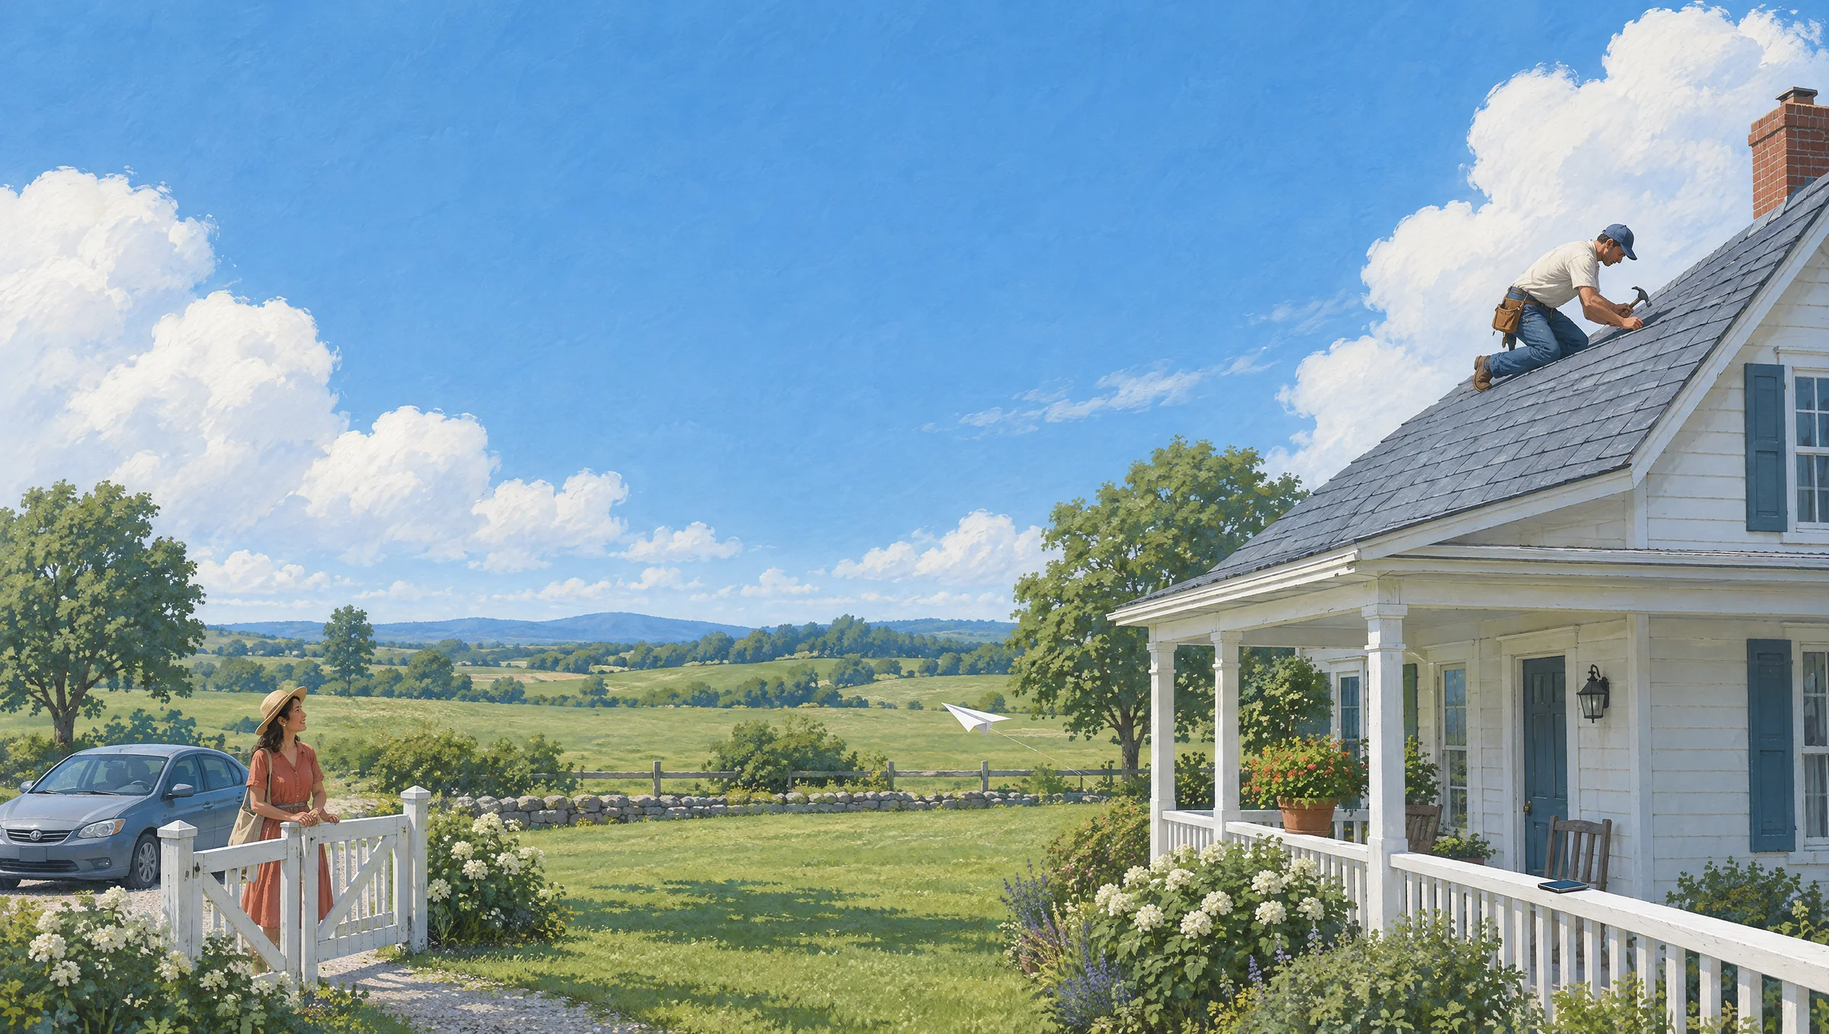
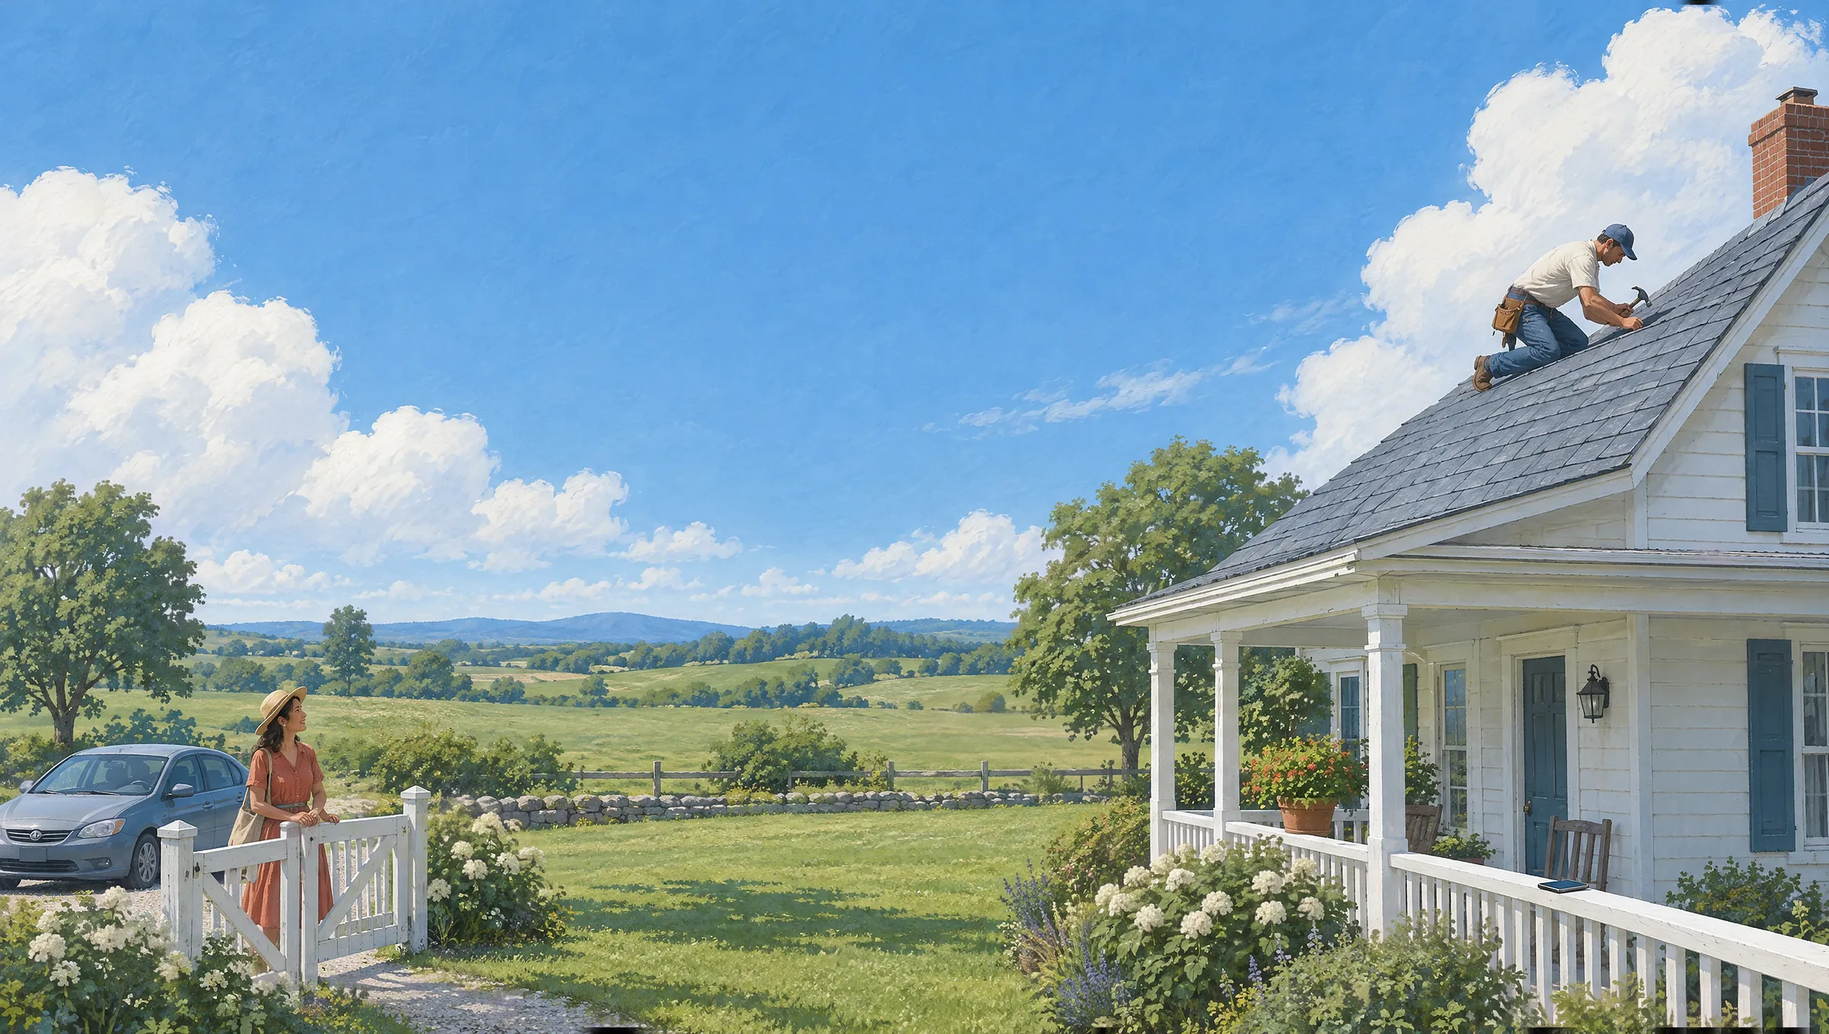
Hero effects: Lineback, Pursuit (all 13 product paintings now move)
- lineback: the text is a paper plane: the roofer (hands busy) sends it, it glides the meadow
  and lands in the hands of the woman at the gate, every few seconds
- pursuit: a steady stream of paper planes leaves her hands, each to a different door
Painted planes removed (Higgsfield, original figures composited back).

diff --git a/s/fx/pursuit.js b/s/fx/pursuit.js
@@ -1,0 +1,200 @@
+/* Pursuit hero: every lead gets chased.
+   - The woman at the cottage keeps sending paper planes, a steady easy rhythm, and each one goes
+     to a different door in the village: the farmhouse up the hill, the girl in blue at the little
+     cottage, the cottage door by the road, the man reaching up at the stone cottage, the woman at
+     the white cottage. Nobody is skipped, nobody gets two in a row: that is the follow-up, one
+     polite message after another, to every lead, until each one is answered.
+   - Each plane flies like a real paper dart: tossed up out of her hands, it settles into a long
+     glide, banks gently into its turn toward its house, shrinks as it goes out over the valley
+     (the far farmhouse gets a small plane, the near cottage a big one), then flares and is
+     caught, or slips in at the door, with a small soft light: answered.
+   - Drawn in 3D (two wings with a slight dihedral and a folded keel) and lit by the painting's sun,
+     seen a little from above the way the painter drew the original ones. Flights stay under the
+     price line so nothing crosses the copy.
+   The painting's own paper planes were painted out (clean plate): every plane is live.
+   Reduced motion / quiet pages: three planes held mid-flight on their way to three doors. */
+(function () {
+  var kit = window.StationHeroFx; if (!kit) return;
+  var ctx = kit.canvas(2);
+  var ASP = 2171 / 3840, HZ = .50;          // painting aspect; horizon (the sea line)
+  // world axes: x right, d away from us, z up. The sun is high, to the left, on our side
+  var SUN = norm([-.35, -.45, .82]);
+  var CE = Math.cos(.36), SE = Math.sin(.36); // we see the planes a little from above
+  var HANDS = [.126, .628];                   // where she lets go
+  // the doors, painting fractions: [x, y, plane length on arrival, arc height, caught by someone?]
+  var DOORS = [
+    [.240, .539, .0080, .018, 0],   // the white farmhouse up the hill (its door)
+    [.353, .653, .0115, .030, 1],   // the girl in blue at the little cottage, arms up
+    [.492, .718, .0135, .020, 0],   // the cottage door down by the road
+    [.652, .736, .0180, .024, 1],   // the man at the stone cottage, arms up
+    [.917, .774, .0215, .022, 1]    // the woman at the white cottage, arms up
+  ];
+  var EVERY = .9;                             // a plane leaves her hands about every 0.9 s
+
+  function norm(v) { var l = Math.hypot(v[0], v[1], v[2]) || 1; return [v[0] / l, v[1] / l, v[2] / l]; }
+  function cross(a, b) { return [a[1] * b[2] - a[2] * b[1], a[2] * b[0] - a[0] * b[2], a[0] * b[1] - a[1] * b[0]]; }
+
+  // one route per door: out of her hands, up a little, a long glide with a gentle S, down to the door.
+  // Size follows depth (harmonic, so it shrinks fast at first and slowly far away). Kept below the
+  // price line (y >= .645) wherever the copy sits.
+  function route(T, seed) {
+    var keys = [[HANDS[0], HANDS[1], .040], [.150, .606, .044]], s1 = .044, n = 9, i;
+    for (i = 1; i <= n; i++) {
+      var u = i / n, e = u * u * (3 - 2 * u) * .35 + u * .65;
+      var x = .150 + (T[0] - .150) * e + .010 * Math.sin(u * 6.2832 + seed) * (1 - u);
+      var y = .606 + (T[1] - .606) * e - T[3] * Math.sin(Math.PI * u) * (1 - .3 * u);
+      if (x > .31 && x < .69) y = Math.max(y, .645 + .01 * Math.sin(u * 3 + seed));
+      if (i === n) { x = T[0]; y = T[1]; }
+      keys.push([x, y, .35 / ((1 - u) / s1 + u / T[2]) + .65 * (s1 + (T[2] - s1) * u)]);
+    }
+    return build(keys);
+  }
+  function build(KEYS) { // dense Catmull-Rom, each point placed in the world (depth = 1 / size)
+    var out = [], i, j, k;
+    for (i = 0; i < KEYS.length - 1; i++) {
+      var p0 = KEYS[Math.max(0, i - 1)], p1 = KEYS[i], p2 = KEYS[i + 1], p3 = KEYS[Math.min(KEYS.length - 1, i + 2)];
+      for (j = 0; j < 16; j++) {
+        var t = j / 16, t2 = t * t, t3 = t2 * t, q = [];
+        for (k = 0; k < 3; k++) q.push(.5 * (2 * p1[k] + (-p0[k] + p2[k]) * t + (2 * p0[k] - 5 * p1[k] + 4 * p2[k] - p3[k]) * t2 + (-p0[k] + 3 * p1[k] - 3 * p2[k] + p3[k]) * t3));
+        out.push(q);
+      }
+    }
+    out.push(KEYS[KEYS.length - 1].slice());
+    var d = 0;
+    out.forEach(function (q, n) {
+      var D = 1 / q[2]; q.w = [(q[0] - .5) * D, D, -(q[1] - HZ) * ASP * D];
+      if (n) { var a = out[n - 1].w; d += Math.hypot(q.w[0] - a[0], q.w[1] - a[1], q.w[2] - a[2]); }
+      q.dist = d;
+    });
+    out.forEach(function (q, n) {
+      var a = out[Math.max(0, n - 2)].w, b = out[Math.min(out.length - 1, n + 2)].w;
+      q.f = norm([b[0] - a[0], b[1] - a[1], b[2] - a[2]]); q.yaw = Math.atan2(q.f[1], q.f[0]);
+    });
+    out.forEach(function (q, n) {
+      var a = out[Math.max(0, n - 3)], b = out[Math.min(out.length - 1, n + 3)], dy = b.yaw - a.yaw;
+      while (dy > Math.PI) dy -= 2 * Math.PI; while (dy < -Math.PI) dy += 2 * Math.PI;
+      q.turn = dy / ((b.dist - a.dist) || 1);
+    });
+    out.len = d;
+    return out;
+  }
+  function at(P, d) {
+    d = Math.max(0, Math.min(P.len, d));
+    var lo = 0, hi = P.length - 1;
+    while (hi - lo > 1) { var m = (lo + hi) >> 1; if (P[m].dist < d) lo = m; else hi = m; }
+    var a = P[lo], b = P[hi], r = (d - a.dist) / ((b.dist - a.dist) || 1);
+    return { x: a[0] + (b[0] - a[0]) * r, y: a[1] + (b[1] - a[1]) * r, s: a[2] + (b[2] - a[2]) * r,
+      f: norm([a.f[0] + (b.f[0] - a.f[0]) * r, a.f[1] + (b.f[1] - a.f[1]) * r, a.f[2] + (b.f[2] - a.f[2]) * r]),
+      turn: a.turn + (b.turn - a.turn) * r };
+  }
+  // two routes per door (slightly different S), so the stream never looks copied
+  var ROUTES = DOORS.map(function (T, i) { return [route(T, i * 1.7), route(T, i * 1.7 + 2.4)]; });
+
+  // a folded paper dart, body coords [forward, right, up], length 1
+  var V = { N: [.5, 0, 0], T: [-.5, 0, .01], L: [-.5, -.29, .07], R: [-.5, .29, .07], CL: [-.5, -.14, .04], CR: [-.5, .14, .04],
+    KL: [-.44, -.018, -.13], KR: [-.44, .018, -.13] };
+  var FACES = [["N", "T", "KL", 1], ["N", "T", "KR", 1], ["N", "T", "L", 0], ["N", "T", "R", 0]];
+  function dart(x, y, len, f, roll, alpha) {
+    if (len < 1.2 || alpha <= .01) return;
+    var up = [0, 0, 1], r = cross(f, up), rl = Math.hypot(r[0], r[1], r[2]);
+    r = rl < .05 ? [0, -1, 0] : [r[0] / rl, r[1] / rl, r[2] / rl];
+    var u = cross(r, f), c = Math.cos(roll), s = Math.sin(roll);
+    var r2 = [r[0] * c + u[0] * s, r[1] * c + u[1] * s, r[2] * c + u[2] * s];
+    var u2 = [u[0] * c - r[0] * s, u[1] * c - r[1] * s, u[2] * c - r[2] * s];
+    var W = {}, k;
+    for (k in V) { var v = V[k]; W[k] = [f[0] * v[0] + r2[0] * v[1] + u2[0] * v[2], f[1] * v[0] + r2[1] * v[1] + u2[1] * v[2], f[2] * v[0] + r2[2] * v[1] + u2[2] * v[2]]; }
+    function sy(q) { return y - (q[2] * CE + q[1] * SE) * len; }
+    var faces = FACES.map(function (F) {
+      var a = W[F[0]], b = W[F[1]], cc = W[F[2]];
+      var n = norm(cross([b[0] - a[0], b[1] - a[1], b[2] - a[2]], [cc[0] - a[0], cc[1] - a[1], cc[2] - a[2]]));
+      if (n[1] * CE - n[2] * SE > 0) n = [-n[0], -n[1], -n[2]]; // the side that faces us
+      var lit = Math.max(0, n[0] * SUN[0] + n[1] * SUN[1] + n[2] * SUN[2]);
+      return { p: [a, b, cc], d: ((a[1] + b[1] + cc[1]) * CE - (a[2] + b[2] + cc[2]) * SE) / 3, lit: lit, keel: F[3] };
+    }).sort(function (p, q) { return q.d - p.d; });
+    ctx.save(); ctx.globalAlpha = alpha; ctx.lineJoin = "round";
+    faces.forEach(function (F) {
+      var b = F.keel ? .52 + .4 * F.lit : .66 + .34 * F.lit;            // paper: never black, shadow is cool sky
+      var R = Math.round(150 + 103 * b), G = Math.round(158 + 93 * b), B = Math.round(176 + 70 * b);
+      ctx.fillStyle = "rgb(" + Math.min(253, R) + "," + Math.min(251, G) + "," + Math.min(246, B) + ")";
+      ctx.beginPath();
+      F.p.forEach(function (q, i) { var px = x + q[0] * len, py = sy(q); if (i) ctx.lineTo(px, py); else ctx.moveTo(px, py); });
+      ctx.closePath(); ctx.fill();
+      if (len > 7) { ctx.lineWidth = Math.max(.6, len * .022); ctx.strokeStyle = "rgba(64,74,96,.32)"; ctx.stroke(); }
+    });
+    if (len > 10) { // the fold creases along each wing
+      ctx.strokeStyle = "rgba(90,100,124,.28)"; ctx.lineWidth = Math.max(.5, len * .014);
+      ctx.beginPath(); ctx.moveTo(x + W.N[0] * len, sy(W.N)); ctx.lineTo(x + W.CL[0] * len, sy(W.CL));
+      ctx.moveTo(x + W.N[0] * len, sy(W.N)); ctx.lineTo(x + W.CR[0] * len, sy(W.CR)); ctx.stroke();
+    }
+    ctx.restore();
+  }
+  function soft(x, y, r, a) { // the small soft light of an answered message
+    if (a <= .005) return;
+    var g = ctx.createRadialGradient(x, y, 0, x, y, r);
+    g.addColorStop(0, "rgba(255,250,236," + a.toFixed(3) + ")"); g.addColorStop(.4, "rgba(255,246,228," + (a * .3).toFixed(3) + ")");
+    g.addColorStop(1, "rgba(255,246,228,0)");
+    ctx.globalCompositeOperation = "screen"; ctx.fillStyle = g; ctx.beginPath(); ctx.arc(x, y, r, 0, 6.2832); ctx.fill();
+    ctx.globalCompositeOperation = "source-over";
+  }
+  function render(q, alpha, roll, pitchUp) {
+    var f = q.f;
+    if (pitchUp) { var h = Math.hypot(f[0], f[1]) || 1, pz = Math.atan2(f[2], h) + pitchUp; f = [f[0] / h * Math.cos(pz), f[1] / h * Math.cos(pz), Math.sin(pz)]; }
+    dart(kit.X(q.x), kit.Y(q.y), q.s * kit.dw, f, roll, alpha);
+  }
+
+  function still() {
+    ctx.clearRect(0, 0, kit.W, kit.H);
+    [[0, .7], [3, .45], [4, .25]].forEach(function (p) { var P = ROUTES[p[0]][0]; render(at(P, P.len * p[1]), 1, .1, 0); });
+  }
+  if (kit.reduce || kit.quiet) { kit.onLayout(still); still(); return; }
+
+  // the order: every door once, shuffled, and never the same door twice in a row
+  var order = [], last = -1;
+  function nextDoor() {
+    if (!order.length) {
+      order = [0, 1, 2, 3, 4];
+      for (var i = order.length - 1; i > 0; i--) { var j = (Math.random() * (i + 1)) | 0, x = order[i]; order[i] = order[j]; order[j] = x; }
+      if (order[order.length - 1] === last) order.unshift(order.pop());
+    }
+    return (last = order.pop());
+  }
+  var planes = [], glows = [], clock = 0, next = .4;
+  function launch() {
+    var i = nextDoor(), P = ROUTES[i][(Math.random() * 2) | 0];
+    // about 3.5 s to the near cottage, up to ~5 s to the far farmhouse
+    planes.push({ P: P, door: i, d: 0, age: 0, bank: 0, ph: Math.random() * 6.28, v: P.len / (3.3 + 2.6 * (1 - DOORS[i][2] / .023)) * .82 });
+  }
+
+  kit.loop(function (t, dt) {
+    clock += dt;
+    if (clock >= next) { launch(); next = clock + EVERY * (.85 + Math.random() * .3); }
+    ctx.clearRect(0, 0, kit.W, kit.H);
+    for (var g = glows.length - 1; g >= 0; g--) {
+      var G = glows[g]; G.life += dt;
+      var a = G.life < .2 ? G.life / .2 : Math.max(0, 1 - (G.life - .2) / 1.1);
+      soft(kit.X(G.x), kit.Y(G.y), kit.dw * G.r, .5 * a);
+      if (G.life > 1.3) glows.splice(g, 1);
+    }
+    var draw = [];
+    for (var i = planes.length - 1; i >= 0; i--) {
+      var p = planes[i], P = p.P, T = DOORS[p.door];
+      p.age += dt;
+      if (p.d < P.len) {
+        var rem = P.len - p.d;
+        p.d = Math.min(P.len, p.d + p.v * (1 + .9 * Math.exp(-p.age * 2.4)) * Math.min(1, .3 + rem / (P.len * .12)) * dt);
+        var q = at(P, p.d), k = p.d / P.len;
+        var want = Math.max(-.7, Math.min(.7, -q.turn * 9)) + .14 * Math.sin(p.age * 1.8 + p.ph);
+        p.bank += (want - p.bank) * Math.min(1, dt * 3);
+        var fl = k > .9 ? (k - .9) / .1 : 0;
+        draw.push([q, Math.min(1, p.age / .2), p.bank * (1 - fl), (T[4] ? .55 : .3) * fl * fl]);
+        if (p.d >= P.len) { p.end = 0; glows.push({ x: T[0], y: T[1] - .004, r: .004 + T[2] * .9, life: 0 }); }
+      } else {
+        p.end += dt; // caught, or slipped in at the door
+        if (p.end > .45) { planes.splice(i, 1); continue; }
+        draw.push([at(P, P.len), 1 - p.end / .45, 0, T[4] ? .55 : .3]);
+      }
+    }
+    draw.sort(function (a, b) { return a[0].s - b[0].s; }); // far planes first
+    draw.forEach(function (d) { render(d[0], d[1], d[2], d[3]); });
+  });
+})();

diff --git a/s/fx/lineback.js b/s/fx/lineback.js
@@ -1,0 +1,161 @@
+/* Lineback hero: the missed call answers itself.
+   - The roofer's hands are full (hammer, shingle), so he can't pick up. A moment later a folded
+     paper plane leaves his side on its own: that plane is the text Lineback sends back.
+   - It flies like a real paper dart thrown off a roof: a little toss up, a nose-down dip as it
+     picks up speed, a pull-out and a long flat glide over the meadow (a small lift, gentle banks
+     into its turns), then it flares, slows and settles into the hands of the woman at the gate,
+     who is already looking up for it. One plane, then a pause, then the next missed call's text.
+   - The plane is drawn in 3D: two wings with a slight dihedral and a folded keel, lit by the
+     painting's sun (lit tops paper-white, the keel and undersides in cool sky shadow), and sized by
+     its distance (smaller out over the field, closer again at the gate).
+   - The glide runs under the headline, buttons and price line, so nothing crosses the copy.
+   The painting's own paper plane was painted out (clean plate): the only plane is the live one.
+   Reduced motion / quiet pages: one plane held mid-glide over the meadow, as the painting had it. */
+(function () {
+  var kit = window.StationHeroFx; if (!kit) return;
+  var ctx = kit.canvas(2);
+  var ASP = 2171 / 3840, HZ = .60;        // painting aspect; horizon (distant hills)
+  // world axes: x right, d away from us, z up. The sun is high, to the right, on our side
+  var SUN = norm([.35, -.45, .82]);
+  // we see the plane a little from above, the way the painter drew the original one
+  var CE = Math.cos(.36), SE = Math.sin(.36);
+  // the flight, painting fractions [x, y, plane length as a fraction of painting width]
+  var KEYS = [[.838, .274, .028], [.810, .258, .034], [.786, .270, .033], [.768, .330, .032], [.748, .410, .031],
+    [.718, .490, .030], [.686, .563, .029], [.652, .630, .027], [.590, .662, .026], [.505, .669, .025], [.420, .661, .025],
+    [.338, .672, .025], [.268, .698, .026], [.215, .734, .027], [.186, .763, .027], [.174, .776, .026]];
+  var HANDS = [.168, .786], GAP = 1.9, FLIGHT = 5.4; // seconds in the air
+
+  function norm(v) { var l = Math.hypot(v[0], v[1], v[2]) || 1; return [v[0] / l, v[1] / l, v[2] / l]; }
+  function cross(a, b) { return [a[1] * b[2] - a[2] * b[1], a[2] * b[0] - a[0] * b[2], a[0] * b[1] - a[1] * b[0]]; }
+
+  // dense Catmull-Rom through KEYS, with each point placed in the world (depth = 1 / size)
+  var P = (function () {
+    var out = [], i, j, k;
+    for (i = 0; i < KEYS.length - 1; i++) {
+      var p0 = KEYS[Math.max(0, i - 1)], p1 = KEYS[i], p2 = KEYS[i + 1], p3 = KEYS[Math.min(KEYS.length - 1, i + 2)];
+      for (j = 0; j < 24; j++) {
+        var t = j / 24, t2 = t * t, t3 = t2 * t, q = [];
+        for (k = 0; k < 3; k++) q.push(.5 * (2 * p1[k] + (-p0[k] + p2[k]) * t + (2 * p0[k] - 5 * p1[k] + 4 * p2[k] - p3[k]) * t2 + (-p0[k] + 3 * p1[k] - 3 * p2[k] + p3[k]) * t3));
+        out.push(q);
+      }
+    }
+    out.push(KEYS[KEYS.length - 1].slice());
+    var d = 0;
+    out.forEach(function (q, n) {
+      var D = 1 / q[2]; q.w = [(q[0] - .5) * D, D, -(q[1] - HZ) * ASP * D];
+      if (n) { var a = out[n - 1].w; d += Math.hypot(q.w[0] - a[0], q.w[1] - a[1], q.w[2] - a[2]); }
+      q.dist = d;
+    });
+    // heading at each point, and how fast it turns (for the bank)
+    out.forEach(function (q, n) {
+      var a = out[Math.max(0, n - 2)].w, b = out[Math.min(out.length - 1, n + 2)].w;
+      q.f = norm([b[0] - a[0], b[1] - a[1], b[2] - a[2]]);
+      q.yaw = Math.atan2(q.f[1], q.f[0]);
+    });
+    out.forEach(function (q, n) {
+      var a = out[Math.max(0, n - 3)], b = out[Math.min(out.length - 1, n + 3)], dy = b.yaw - a.yaw;
+      while (dy > Math.PI) dy -= 2 * Math.PI; while (dy < -Math.PI) dy += 2 * Math.PI;
+      q.turn = dy / ((b.dist - a.dist) || 1);
+    });
+    return out;
+  })();
+  var LEN = P[P.length - 1].dist, SPEED = LEN / FLIGHT * .82;
+  function at(d) {
+    d = Math.max(0, Math.min(LEN, d));
+    var lo = 0, hi = P.length - 1;
+    while (hi - lo > 1) { var m = (lo + hi) >> 1; if (P[m].dist < d) lo = m; else hi = m; }
+    var a = P[lo], b = P[hi], r = (d - a.dist) / ((b.dist - a.dist) || 1);
+    return { x: a[0] + (b[0] - a[0]) * r, y: a[1] + (b[1] - a[1]) * r, s: a[2] + (b[2] - a[2]) * r,
+      f: norm([a.f[0] + (b.f[0] - a.f[0]) * r, a.f[1] + (b.f[1] - a.f[1]) * r, a.f[2] + (b.f[2] - a.f[2]) * r]),
+      turn: a.turn + (b.turn - a.turn) * r };
+  }
+
+  // a folded paper dart, body coords [forward, right, up], length 1
+  var V = { N: [.5, 0, 0], T: [-.5, 0, .01], L: [-.5, -.29, .07], R: [-.5, .29, .07], CL: [-.5, -.14, .04], CR: [-.5, .14, .04],
+    KL: [-.44, -.018, -.13], KR: [-.44, .018, -.13] };
+  var FACES = [["N", "T", "KL", 1], ["N", "T", "KR", 1], ["N", "T", "L", 0], ["N", "T", "R", 0]];
+  function dart(x, y, len, f, roll, alpha) {
+    if (len < 1.2 || alpha <= .01) return;
+    var up = [0, 0, 1], r = cross(f, up), rl = Math.hypot(r[0], r[1], r[2]);
+    r = rl < .05 ? [0, -1, 0] : [r[0] / rl, r[1] / rl, r[2] / rl];
+    var u = cross(r, f), c = Math.cos(roll), s = Math.sin(roll);
+    var r2 = [r[0] * c + u[0] * s, r[1] * c + u[1] * s, r[2] * c + u[2] * s];
+    var u2 = [u[0] * c - r[0] * s, u[1] * c - r[1] * s, u[2] * c - r[2] * s];
+    var W = {}, k;
+    for (k in V) { var v = V[k]; W[k] = [f[0] * v[0] + r2[0] * v[1] + u2[0] * v[2], f[1] * v[0] + r2[1] * v[1] + u2[1] * v[2], f[2] * v[0] + r2[2] * v[1] + u2[2] * v[2]]; }
+    function sy(q) { return y - (q[2] * CE + q[1] * SE) * len; }
+    var faces = FACES.map(function (F) {
+      var a = W[F[0]], b = W[F[1]], cc = W[F[2]];
+      var n = norm(cross([b[0] - a[0], b[1] - a[1], b[2] - a[2]], [cc[0] - a[0], cc[1] - a[1], cc[2] - a[2]]));
+      if (n[1] * CE - n[2] * SE > 0) n = [-n[0], -n[1], -n[2]]; // the side that faces us
+      var lit = Math.max(0, n[0] * SUN[0] + n[1] * SUN[1] + n[2] * SUN[2]);
+      return { p: [a, b, cc], d: ((a[1] + b[1] + cc[1]) * CE - (a[2] + b[2] + cc[2]) * SE) / 3, lit: lit, keel: F[3] };
+    }).sort(function (p, q) { return q.d - p.d; });
+    ctx.save(); ctx.globalAlpha = alpha; ctx.lineJoin = "round";
+    ctx.lineWidth = Math.max(.6, len * .022);
+    faces.forEach(function (F) {
+      var b = F.keel ? .52 + .4 * F.lit : .66 + .34 * F.lit;            // paper: never black, shadow is cool sky
+      var R = Math.round(150 + 103 * b), G = Math.round(158 + 93 * b), B = Math.round(176 + 70 * b);
+      ctx.fillStyle = "rgb(" + Math.min(253, R) + "," + Math.min(251, G) + "," + Math.min(246, B) + ")";
+      ctx.beginPath();
+      F.p.forEach(function (q, i) { var px = x + q[0] * len, py = y - (q[2] * CE + q[1] * SE) * len; if (i) ctx.lineTo(px, py); else ctx.moveTo(px, py); });
+      ctx.closePath(); ctx.fill();
+      ctx.strokeStyle = "rgba(64,74,96,.32)"; ctx.stroke();
+    });
+    // the fold creases along each wing
+    ctx.strokeStyle = "rgba(90,100,124,.28)"; ctx.lineWidth = Math.max(.5, len * .014);
+    ctx.beginPath(); ctx.moveTo(x + W.N[0] * len, sy(W.N)); ctx.lineTo(x + W.CL[0] * len, sy(W.CL));
+    ctx.moveTo(x + W.N[0] * len, sy(W.N)); ctx.lineTo(x + W.CR[0] * len, sy(W.CR)); ctx.stroke();
+    ctx.restore();
+  }
+
+  function soft(x, y, r, a) { // a small soft light where the text lands
+    if (a <= .005) return;
+    var g = ctx.createRadialGradient(x, y, 0, x, y, r);
+    g.addColorStop(0, "rgba(255,250,236," + a.toFixed(3) + ")"); g.addColorStop(.4, "rgba(255,246,228," + (a * .3).toFixed(3) + ")");
+    g.addColorStop(1, "rgba(255,246,228,0)");
+    ctx.globalCompositeOperation = "screen"; ctx.fillStyle = g; ctx.beginPath(); ctx.arc(x, y, r, 0, 6.2832); ctx.fill();
+    ctx.globalCompositeOperation = "source-over";
+  }
+
+  // one flight: distance flown, age, bank (smoothed), then a fade in her hands
+  var fl = null, wait = 1.2, landed = -1, bank = 0;
+  function render(q, alpha, roll, pitchUp) {
+    var f = q.f;
+    if (pitchUp) { var h = Math.hypot(f[0], f[1]) || 1, pz = Math.atan2(f[2], h) + pitchUp; f = [f[0] / h * Math.cos(pz), f[1] / h * Math.cos(pz), Math.sin(pz)]; }
+    dart(kit.X(q.x), kit.Y(q.y), q.s * kit.dw, f, roll, alpha);
+  }
+  function still() {
+    ctx.clearRect(0, 0, kit.W, kit.H);
+    var q = at(LEN * .6); render(q, 1, .12, 0);
+  }
+
+  if (kit.reduce || kit.quiet) { kit.onLayout(still); still(); return; }
+
+  kit.loop(function (t, dt) {
+    ctx.clearRect(0, 0, kit.W, kit.H);
+    if (!fl) { wait -= dt; if (wait <= 0) { fl = { d: 0, age: 0 }; bank = 0; } }
+    if (fl) {
+      fl.age += dt;
+      var rem = LEN - fl.d;
+      // thrown hard, eases into the glide; slows for the flare at the end
+      var v = SPEED * (1 + .9 * Math.exp(-fl.age * 2.2)) * Math.min(1, .3 + rem / (LEN * .12));
+      fl.d = Math.min(LEN, fl.d + v * dt);
+      var q = at(fl.d), k = fl.d / LEN;
+      var want = Math.max(-.75, Math.min(.75, -q.turn * 9)) + .16 * Math.sin(fl.age * 1.7) + .06 * Math.sin(fl.age * 3.1);
+      bank += (want - bank) * Math.min(1, dt * 3);
+      var flare = k > .9 ? (k - .9) / .1 : 0;
+      var a = Math.min(1, fl.age / .3);
+      render(q, a, bank * (1 - flare), .55 * flare * flare);
+      if (fl.d >= LEN - .01) { fl = null; landed = 0; wait = GAP + 1.0; }
+    }
+    if (landed >= 0) {
+      landed += dt;
+      var e = at(LEN);
+      if (landed < .55) render(e, 1 - landed / .55, 0, .55); // settles into her hands
+      var g = landed < .25 ? landed / .25 : Math.max(0, 1 - (landed - .25) / 1.1);
+      soft(kit.X(HANDS[0]), kit.Y(HANDS[1] - .006), kit.dw * .016, .55 * g);
+      if (landed > 1.4) landed = -1;
+    }
+  });
+})();

diff --git a/s/hero.js b/s/hero.js
@@ -60,7 +60,7 @@
      the hero is off screen or the tab is hidden. kit.quiet is true on pages where the hero sits
      behind a form or checklist (.skin-hero): effects hold still or stay faint there. kit.reduce is
      the visitor's reduced-motion setting: draw one still frame, never loop. */
-  var EFFECTS = ["agency-studio", "day-night", "repute", "marquee", "slate", "dial", "radar", "security", "revive", "tap", "storefront", "greet"];
+  var EFFECTS = ["agency-studio", "day-night", "lineback", "repute", "storefront", "dial", "greet", "marquee", "pursuit", "radar", "revive", "security", "slate", "tap"];
   var art = (img.getAttribute("src") || "").split("/").pop().split("?")[0].replace(/(-1600|-4k|-m)?\.webp$/, "");
   if (EFFECTS.indexOf(art) >= 0) {
     var kit = window.StationHeroFx = { hero: hero, img: img, fx: fx, art: art, reduce: reduce, quiet: hero.classList.contains("skin-hero"),
